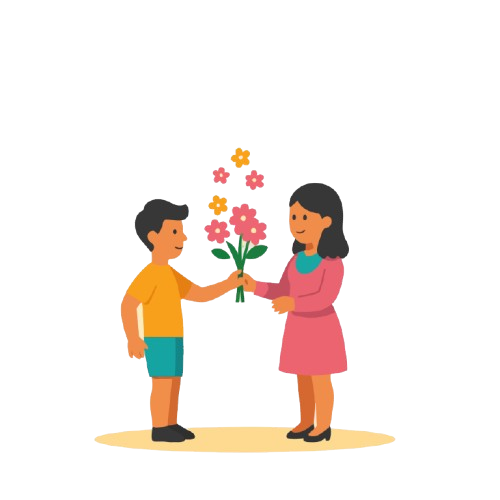
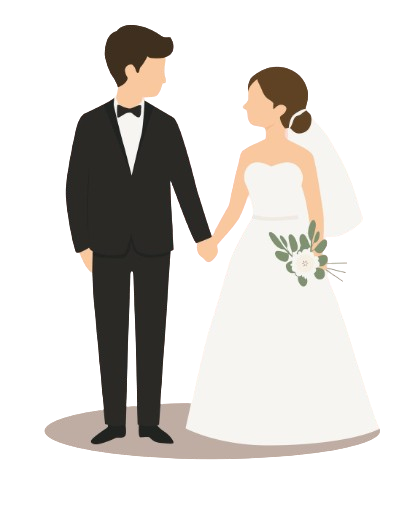
changes

diff --git a/BibinChristeena/css/style.css b/BibinChristeena/css/style.css
@@ -145,9 +145,9 @@ h2 em{font-family:var(--f-script);font-style:normal;color:var(--rose);font-size:
 .scratch-secret-only-date .s-day{font-family:var(--f-sans);font-size:12px;letter-spacing:.32em;text-transform:uppercase;color:var(--gold);margin-top:4px}
 #scratchCanvas{position:absolute;inset:0;width:100%;height:100%;cursor:crosshair;touch-action:none;z-index:2;transition:opacity .7s ease}
 #scratchCanvas.revealed{opacity:0;pointer-events:none}
-.scratch-hint{font-family:var(--f-sans);font-size:11px;letter-spacing:.26em;text-transform:uppercase;color:var(--gold);margin:12px auto 0;text-align:center;display:flex;align-items:center;justify-content:center;gap:10px;opacity:.9;transition:opacity .5s ease,transform .5s ease}
-.scratch-hint .sparkle{color:var(--rose);font-size:10px;animation:breathe 2.4s infinite ease-in-out;display:inline-block}
-.scratch-hint.revealed{opacity:0;transform:translateY(4px);pointer-events:none}
+.scratch-hint-overlay{position:absolute;bottom:14px;left:50%;transform:translateX(-50%);z-index:3;pointer-events:none;font-family:var(--f-sans);font-size:11px;letter-spacing:.22em;text-transform:uppercase;color:#3A2731;font-weight:600;background:rgba(255,253,251,.88);backdrop-filter:blur(6px);-webkit-backdrop-filter:blur(6px);padding:5px 14px;border-radius:999px;border:1px solid rgba(169,135,79,.35);box-shadow:0 4px 14px rgba(58,39,49,.16);display:flex;align-items:center;gap:8px;white-space:nowrap;user-select:none;transition:opacity .35s ease,transform .35s ease}
+.scratch-hint-overlay .sparkle{color:var(--rose);font-size:10px;animation:breathe 2.4s infinite ease-in-out;display:inline-block}
+.scratch-hint-overlay.scratched{opacity:0;transform:translateX(-50%) translateY(8px);pointer-events:none}
 
 /* Live Countdown */
 .count{position:relative;display:grid;grid-template-columns:repeat(4,minmax(0,1fr));gap:clamp(8px,2vw,20px);max-width:620px;margin:30px auto 0}
@@ -194,6 +194,8 @@ h2 em{font-family:var(--f-script);font-style:normal;color:var(--rose);font-size:
    PAGE 4: MOMENTS (US, SO FAR) - CENTRAL TIMELINE WITH BC MEDALLIONS
    ========================================================================== */
 #moments{background:var(--paper);position:relative;overflow:hidden}
+.moments-verse{margin:12px auto 0;font-style:italic;color:var(--ink-soft);text-align:center}
+.moments-verse cite{display:block;margin-top:6px;font-family:var(--f-sans);font-style:normal;font-size:11px;letter-spacing:.24em;text-transform:uppercase;color:var(--gold);text-align:center}
 .moments-container{position:relative;max-width:980px;margin:50px auto 0;padding-bottom:30px}
 
 /* Central vertical guideline & scrolling trail (PDF Page 4) */
@@ -354,13 +356,16 @@ footer .love-names{font-family:var(--f-display);font-style:normal;font-size:clam
   .invite-scroll-prompt svg{width:13px;height:13px}
   @keyframes promptBounce{0%,100%{transform:translateY(0)}50%{transform:translateY(4px)}}
 
-  .moments-spine{left:20px;transform:translateX(-50%)}
-  .moments-row{grid-template-columns:40px minmax(0,1fr);gap:14px}
-  .moments-logo{grid-column:1;width:38px;height:38px}
-  .moments-logo-img{width:22px;height:22px}
-  .photo-card.on-left,.photo-card.on-right{grid-column:2;justify-self:stretch;width:100%}
-  .js .moments-row .photo-card.on-left,
-  .js .moments-row .photo-card.on-right{transform:translateX(30px) translateY(14px) scale(.96) rotate(0deg)}
+  .moments-container{margin-top:36px}
+  .moments-spine{left:50%;transform:translateX(-50%)}
+  .moments-row{grid-template-columns:1fr 38px 1fr;gap:10px;margin-bottom:28px}
+  .moments-logo{grid-column:2;width:34px;height:34px}
+  .moments-logo-img{width:19px;height:19px}
+  .photo-card{padding:6px;border-radius:12px}
+  .photo-card.on-left{grid-column:1;justify-self:end;width:100%}
+  .photo-card.on-right{grid-column:3;justify-self:start;width:100%}
+  .js .moments-row .photo-card.on-left{transform:translateX(-24px) translateY(10px) rotate(-1.5deg) scale(.96)}
+  .js .moments-row .photo-card.on-right{transform:translateX(24px) translateY(10px) rotate(1.5deg) scale(.96)}
   .js .moments-row.in .photo-card.on-left,
   .js .moments-row.in .photo-card.on-right{transform:none}
   .vine{left:21px;top:44px}
@@ -371,6 +376,11 @@ footer .love-names{font-family:var(--f-display);font-style:normal;font-size:clam
 }
 
 @media (max-width:480px){
+  .moments-row{grid-template-columns:1fr 32px 1fr;gap:8px;margin-bottom:24px}
+  .moments-logo{width:30px;height:30px}
+  .moments-logo-img{width:17px;height:17px}
+  .photo-card{padding:5px;border-radius:10px}
+  .scratch-hint-overlay{font-size:9.5px;letter-spacing:.15em;padding:4px 10px;bottom:10px}
   .part{grid-template-columns:1fr;gap:2px}
   .part-time{padding-top:0}
   .vignettes-3{gap:8px}

diff --git a/BibinChristeena/index.html b/BibinChristeena/index.html
@@ -205,8 +205,7 @@
        ========================================================================== -->
   <section class="section" id="schedule">
     <div class="wrap center">
-      <p class="eyebrow rv">Save Our Date</p>
-      <h2 class="rv" style="margin-top:8px">Mark the special Day</h2>
+      <h2 class="rv">Mark the special Day</h2>
 
       <!-- Golden Scratch Card: CONTAINS THE DATE ONLY (User instruction) -->
       <div class="scratch-card-box rv" id="scratchCardBox">
@@ -216,13 +215,12 @@
           <span class="s-mo">January · 2027</span>
         </div>
         <canvas id="scratchCanvas"></canvas>
+        <div class="scratch-hint-overlay" id="scratchHint" aria-hidden="true"><span class="sparkle">✦</span> Scratch to reveal the date <span class="sparkle">✦</span></div>
       </div>
-      <p class="scratch-hint rv" id="scratchHint"><span class="sparkle" aria-hidden="true">✦</span> Scratch to reveal the date <span class="sparkle" aria-hidden="true">✦</span></p>
 
       <!-- Events Timeline Heading (PDF Page 3) -->
       <div class="timeline-title-wrap rv">
-        <p class="eyebrow">Order of Events</p>
-        <h2 style="margin-top:8px">Join us for the <em>celebration</em></h2>
+        <h2>Join us for the <em>celebration</em></h2>
       </div>
 
       <!-- Vertical Timeline: populated with reference design by script.js -->
@@ -246,7 +244,7 @@
     <div class="wrap center">
       <p class="eyebrow rv">Moments</p>
       <h2 class="rv" style="margin-top:8px">Us, <em>So far</em></h2>
-      <p class="rv" style="margin:12px 0 0;font-style:italic;color:var(--ink-soft)">“He has made everything beautiful in its time.” <span style="font-family:var(--f-sans);font-style:normal;font-size:11px;letter-spacing:.24em;color:var(--gold)">ECCL. 3:11</span></p>
+      <p class="rv moments-verse">“He has made everything beautiful in its time.”<cite>ECCL. 3:11</cite></p>
 
       <!-- Central Timeline Gallery with Monogram Medallions (PDF Page 4) -->
       <div class="moments-container">
@@ -364,7 +362,7 @@
       <div class="rule rv" aria-hidden="true"><svg viewBox="0 0 100 100"><use href="#bloomBlue"/></svg></div>
       <div class="footer-couple script rv">Bibin <span class="amp">&amp;</span> Christeena</div>
       <p class="love-lbl rv">WITH LOVE FROM</p>
-      <p class="love-names rv">Abin · Betcy · Christy</p>
+      <p class="love-names rv">Abin · Betsy · Christy</p>
     </div>
   </footer>
 </main>

diff --git a/BibinChristeena/js/script.js b/BibinChristeena/js/script.js
@@ -247,7 +247,15 @@
       return { x: cx - rect.left, y: cy - rect.top };
     }
 
+    function hideHint() {
+      const hint = $("#scratchHint");
+      if (hint && !hint.classList.contains("scratched")) {
+        hint.classList.add("scratched");
+      }
+    }
+
     function scratch(x, y) {
+      hideHint();
       sCtx.globalCompositeOperation = "destination-out";
       sCtx.beginPath();
       sCtx.arc(x, y, 26, 0, Math.PI * 2);
@@ -272,15 +280,14 @@
       if (isRevealed) return;
       isRevealed = true;
       scratchCanvas.classList.add("revealed");
-      const hint = $("#scratchHint");
-      if (hint) hint.classList.add("revealed");
+      hideHint();
       startPetals(true);
     }
 
-    scratchCanvas.addEventListener("mousedown", e => { isDrawing = true; const p = getPos(e); scratch(p.x, p.y); });
+    scratchCanvas.addEventListener("mousedown", e => { isDrawing = true; hideHint(); const p = getPos(e); scratch(p.x, p.y); });
     addEventListener("mouseup", () => { if (isDrawing) { isDrawing = false; checkPercent(); } });
     scratchCanvas.addEventListener("mousemove", e => { if (isDrawing) { const p = getPos(e); scratch(p.x, p.y); } });
-    scratchCanvas.addEventListener("touchstart", e => { isDrawing = true; const p = getPos(e); scratch(p.x, p.y); }, { passive: true });
+    scratchCanvas.addEventListener("touchstart", e => { isDrawing = true; hideHint(); const p = getPos(e); scratch(p.x, p.y); }, { passive: true });
     addEventListener("touchend", () => { if (isDrawing) { isDrawing = false; checkPercent(); } });
     scratchCanvas.addEventListener("touchmove", e => { if (isDrawing) { const p = getPos(e); scratch(p.x, p.y); } }, { passive: true });
   }

diff --git a/BibinChristeena/js/config.js b/BibinChristeena/js/config.js
@@ -33,14 +33,9 @@ const CONFIG = {
         {
           time: "10:15 am",
           what: "Meet & Greet",
-          where: "Church Grounds, Ebenezer Marthoma Church premises, Othera",
-          map: "https://maps.app.goo.gl/BDc7FmCFvpCj5zTm6"
+          where: "Ebenezer Marthoma Church, Othera P.O, Thiruvalla"
         }
-      ],
-      cal: {
-        start: "2027-01-06T10:15:00+05:30",
-        end: "2027-01-06T10:30:00+05:30"
-      }
+      ]
     },
     {
       id: "ceremony",
@@ -89,14 +84,9 @@ const CONFIG = {
         {
           time: "3:00 pm",
           what: "Final Toast",
-          where: "Loyal Convention Centre, Kumbanad",
-          map: "https://maps.app.goo.gl/WBtSgTKFupCVxvTd9"
+          where: "Loyal Convention Centre, Kumbanad"
         }
-      ],
-      cal: {
-        start: "2027-01-06T15:00:00+05:30",
-        end: "2027-01-06T15:30:00+05:30"
-      }
+      ]
     }
   ],
 
